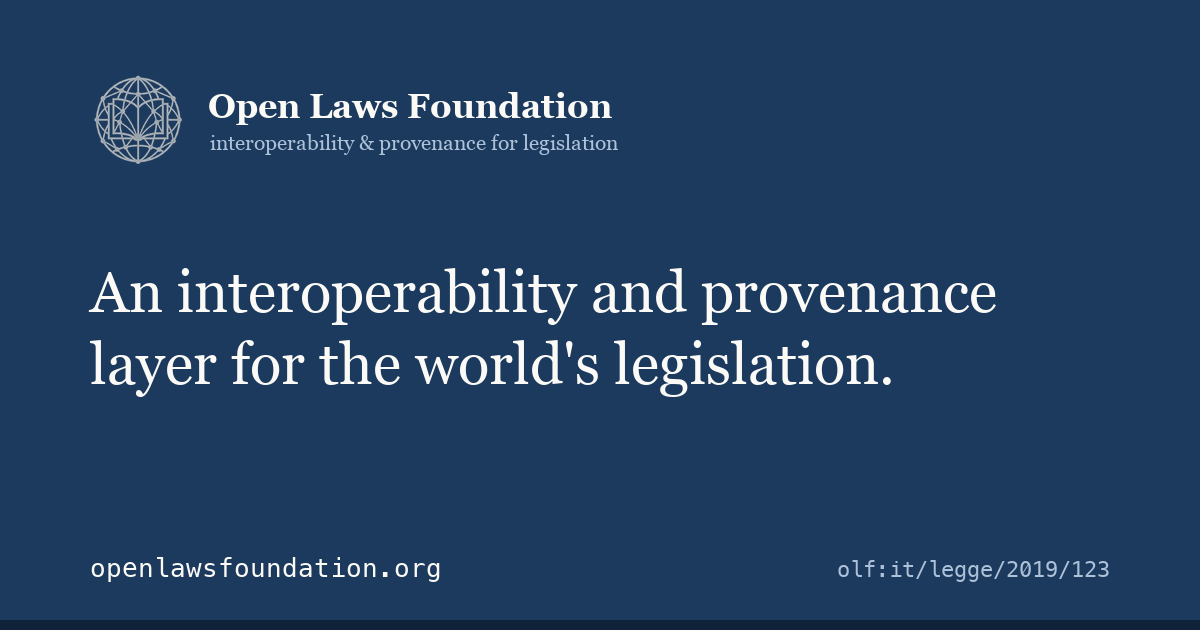
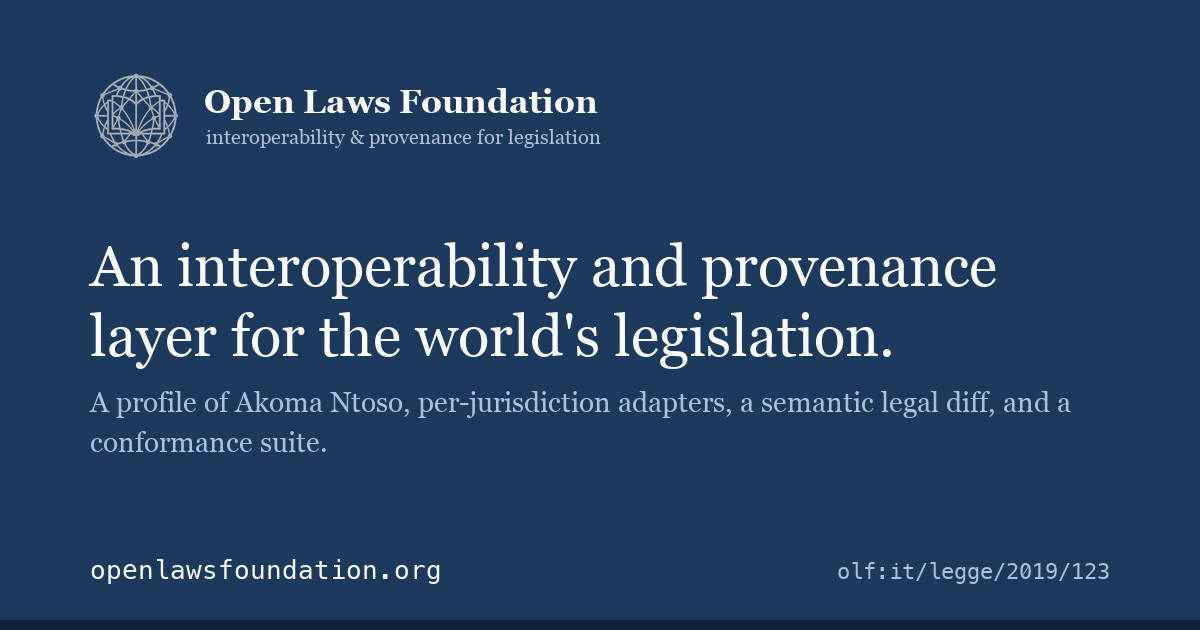
Add per-page Open Graph cards and a CI SEO metadata check
- scripts/build-og-cards.py generates a distinct 1200x630 share card per page
  (spec, pipeline, diff, archive, principles, contributors) plus the home/default
  card, each with the section eyebrow, page title, and a short subtitle. Pages
  reference their card via an 'image' front-matter field; cards stay PNG for
  social-embed compatibility.
- scripts/check-seo.py validates the built HTML: every page must have a title,
  description, canonical, Open Graph (title/description/url/image/type) and a
  Twitter card, the og:image must exist on disk, and the home page must carry
  JSON-LD. The deploy workflow now runs it after the Hugo build and fails the
  deploy if anything is missing.

diff --git a/scripts/check-seo.py b/scripts/check-seo.py
@@ -1,0 +1,130 @@
+#!/usr/bin/env python3
+"""Validate SEO metadata in the built site. Fails (exit 1) if any HTML page is
+missing required tags, or if an og:image points at a file that isn't there.
+
+Usage: python3 scripts/check-seo.py [public_dir]   (default: public)
+"""
+import os
+import sys
+from html.parser import HTMLParser
+
+PUBLIC = sys.argv[1] if len(sys.argv) > 1 else "public"
+
+# Required on every HTML page.
+REQUIRED_META_NAME = {"description", "twitter:card"}
+REQUIRED_META_PROP = {"og:title", "og:description", "og:url", "og:image", "og:type"}
+
+
+class Head(HTMLParser):
+    def __init__(self):
+        super().__init__()
+        self.title = ""
+        self._in_title = False
+        self.meta_name = {}
+        self.meta_prop = {}
+        self.canonical = None
+        self.ld_json = False
+        self._in_ld = False
+
+    def handle_starttag(self, tag, attrs):
+        a = dict(attrs)
+        if tag == "title":
+            self._in_title = True
+        elif tag == "meta":
+            c = (a.get("content") or "").strip()
+            if a.get("name"):
+                self.meta_name[a["name"]] = c
+            if a.get("property"):
+                self.meta_prop[a["property"]] = c
+        elif tag == "link" and a.get("rel") == "canonical":
+            self.canonical = a.get("href")
+        elif tag == "script" and a.get("type") == "application/ld+json":
+            self._in_ld = True
+
+    def handle_endtag(self, tag):
+        if tag == "title":
+            self._in_title = False
+        elif tag == "script" and self._in_ld:
+            self._in_ld = False
+
+    def handle_data(self, data):
+        if self._in_title:
+            self.title += data
+        if self._in_ld and data.strip():
+            self.ld_json = True
+
+
+def rel_from_url(url):
+    for base in ("https://openlawsfoundation.org", "http://openlawsfoundation.org",
+                 "https://localhost", "http://localhost"):
+        if url.startswith(base):
+            return url[len(base):].split("?")[0]
+    if url.startswith("/"):
+        return url.split("?")[0]
+    return None
+
+
+def check(path, is_home):
+    errors = []
+    with open(path, encoding="utf-8") as f:
+        html = f.read()
+    p = Head()
+    p.feed(html)
+
+    if not p.title.strip():
+        errors.append("missing <title>")
+    for n in REQUIRED_META_NAME:
+        if not p.meta_name.get(n):
+            errors.append(f"missing meta name={n}")
+    for n in REQUIRED_META_PROP:
+        if not p.meta_prop.get(n):
+            errors.append(f"missing meta property={n}")
+    if not p.canonical:
+        errors.append("missing canonical link")
+
+    og_img = p.meta_prop.get("og:image")
+    if og_img:
+        rel = rel_from_url(og_img)
+        if not rel:
+            errors.append(f"og:image not absolute/resolvable: {og_img}")
+        else:
+            fp = os.path.join(PUBLIC, rel.lstrip("/"))
+            if not os.path.isfile(fp):
+                errors.append(f"og:image file missing on disk: {rel}")
+            elif os.path.getsize(fp) < 1024:
+                errors.append(f"og:image suspiciously small: {rel}")
+
+    if is_home and not p.ld_json:
+        errors.append("home page missing JSON-LD structured data")
+    return errors
+
+
+def main():
+    if not os.path.isdir(PUBLIC):
+        print(f"ERROR: '{PUBLIC}' not found. Build the site first.", file=sys.stderr)
+        sys.exit(2)
+
+    home = os.path.normpath(os.path.join(PUBLIC, "index.html"))
+    pages, failures = 0, 0
+    for root, _, files in os.walk(PUBLIC):
+        for fn in files:
+            if not fn.endswith(".html"):
+                continue
+            path = os.path.join(root, fn)
+            pages += 1
+            errs = check(path, is_home=(os.path.normpath(path) == home))
+            if errs:
+                failures += 1
+                rel = os.path.relpath(path, PUBLIC)
+                print(f"FAIL  {rel}")
+                for e in errs:
+                    print(f"        - {e}")
+
+    if failures:
+        print(f"\nSEO check failed: {failures}/{pages} page(s) with issues.", file=sys.stderr)
+        sys.exit(1)
+    print(f"SEO check passed: {pages} page(s), all required metadata present.")
+
+
+if __name__ == "__main__":
+    main()

diff --git a/scripts/build-og-cards.py b/scripts/build-og-cards.py
@@ -1,0 +1,109 @@
+#!/usr/bin/env python3
+"""Generate per-page Open Graph share cards (1200x630) for the OLF site.
+
+Run from the repo root. Writes static/img/og-card.png (home/default) and
+static/img/og/<slug>.png for each content page. Static brand assets: regenerate
+only when the page titles/taglines change. macOS system fonts.
+"""
+from PIL import Image, ImageDraw, ImageFont
+
+NAVY = (27, 58, 94)
+PAPER = (251, 250, 246)
+MUTED = (173, 193, 217)
+EYE = (139, 167, 201)
+SER = "/System/Library/Fonts/Supplemental/Georgia.ttf"
+SERB = "/System/Library/Fonts/Supplemental/Georgia Bold.ttf"
+MONO = "/System/Library/Fonts/Menlo.ttc"
+W, H = 1200, 630
+PAD = 90
+
+# (output path, eyebrow, title, subtitle)
+CARDS = [
+    ("static/img/og-card.png", "",
+     "An interoperability and provenance layer for the world's legislation.",
+     "A profile of Akoma Ntoso, per-jurisdiction adapters, a semantic legal diff, and a conformance suite."),
+    ("static/img/og/spec.png", "SPEC",
+     "AKN4OLF: the profile",
+     "A profile of Akoma Ntoso, plus the conformance suite every adapter must pass."),
+    ("static/img/og/pipeline.png", "PIPELINE",
+     "Adapters & ingest",
+     "Turn official sources into validated Akoma Ntoso. Pass the suite, get published."),
+    ("static/img/og/diff.png", "DIFF",
+     "Semantic, type-aware diff",
+     "What kind of change happened, not just that some bytes moved."),
+    ("static/img/og/archive.png", "ARCHIVE",
+     "The canonical corpus",
+     "Legislation in Akoma Ntoso. Generated, not hand-edited. Public domain."),
+    ("static/img/og/principles.png", "DESIGN PHILOSOPHY",
+     "Principles",
+     "Normalize metadata, never content. Profile, don't replace. Conformance over coordination."),
+    ("static/img/og/contributors.png", "THE PEOPLE",
+     "Contributors",
+     "Who builds and maintains the Open Laws Foundation."),
+]
+
+
+def wrap(draw, text, font, maxw):
+    words, lines, cur = text.split(), [], ""
+    for w in words:
+        t = (cur + " " + w).strip()
+        if draw.textlength(t, font=font) <= maxw:
+            cur = t
+        else:
+            lines.append(cur)
+            cur = w
+    if cur:
+        lines.append(cur)
+    return lines
+
+
+def tracked(draw, xy, text, font, fill, spacing):
+    x, y = xy
+    for ch in text:
+        draw.text((x, y), ch, font=font, fill=fill)
+        x += draw.textlength(ch, font=font) + spacing
+
+
+def make(out, eyebrow, title, subtitle):
+    img = Image.new("RGB", (W, H), NAVY)
+    d = ImageDraw.Draw(img)
+    d.rectangle([0, H - 10, W, H], fill=(15, 34, 58))
+
+    mark = Image.open("static/img/olf-mark-light.webp").convert("RGBA").resize((92, 92), Image.LANCZOS)
+    img.paste(mark, (PAD, 70), mark)
+    d.text((PAD + 114, 82), "Open Laws Foundation", font=ImageFont.truetype(SERB, 33), fill=PAPER)
+    d.text((PAD + 116, 125), "interoperability & provenance for legislation",
+           font=ImageFont.truetype(SER, 20), fill=MUTED)
+
+    y = 232
+    if eyebrow:
+        tracked(d, (PAD, y), eyebrow, ImageFont.truetype(SERB, 22), EYE, 3)
+        y += 50
+
+    fh = ImageFont.truetype(SER, 58 if len(title) > 22 else 66)
+    for ln in wrap(d, title, fh, W - 2 * PAD):
+        d.text((PAD, y), ln, font=fh, fill=PAPER)
+        y += fh.size + 12
+
+    if subtitle:
+        y += 14
+        fs = ImageFont.truetype(SER, 28)
+        for ln in wrap(d, subtitle, fs, W - 2 * PAD)[:2]:
+            d.text((PAD, y), ln, font=fs, fill=MUTED)
+            y += 40
+
+    fm = ImageFont.truetype(MONO, 26)
+    d.text((PAD, H - 76), "openlawsfoundation.org", font=fm, fill=PAPER)
+    fid = ImageFont.truetype(MONO, 22)
+    idtxt = "olf:it/legge/2019/123"
+    d.text((W - PAD - d.textlength(idtxt, font=fid), H - 72), idtxt, font=fid, fill=MUTED)
+
+    img.save(out, optimize=True)
+    print("wrote", out)
+
+
+if __name__ == "__main__":
+    import os
+    os.makedirs("static/img/og", exist_ok=True)
+    for c in CARDS:
+        make(*c)

diff --git a/content/diff.md b/content/diff.md
@@ -1,5 +1,6 @@
 ---
 title: "Diff: semantic and type-aware"
+image: "/img/og/diff.png"
 eyebrow: "diff"
 description: "A semantic differ and changeset model that understands Akoma Ntoso. It tells you what kind of change happened, not just that some bytes moved."
 lede: "A text diff tells you that bytes moved. For legislation that is almost useless. The OLF differ understands Akoma Ntoso structure, so it tells you what kind of change happened: a substantive amendment, a change to entry into force, or a cosmetic fix."

diff --git a/content/contributors.md b/content/contributors.md
@@ -2,6 +2,7 @@
 title: "Contributors"
 eyebrow: "the people"
 layout: "contributors"
+image: "/img/og/contributors.png"
 description: "The people who build and maintain the Open Laws Foundation, inferred automatically from the organization's own repositories."
 lede: "A small project, kept honest by a small group. This list is rebuilt automatically from the organization's own repositories, so it stays current as people show up."
 # Founders are forced on top by scripts/build-contributors.py. These overrides

diff --git a/content/pipeline.md b/content/pipeline.md
@@ -1,5 +1,6 @@
 ---
 title: "Pipeline: adapters and ingest"
+image: "/img/og/pipeline.png"
 eyebrow: "pipeline"
 description: "Per-jurisdiction adapters and the ingest → validate → publish workflow that turns official sources into validated Akoma Ntoso."
 lede: "The pipeline is where official, already-published legal data becomes validated Akoma Ntoso. One adapter per jurisdiction, one shared workflow, one definition of done: pass the conformance suite."

diff --git a/content/archive.md b/content/archive.md
@@ -1,5 +1,6 @@
 ---
 title: "Archive: the canonical corpus"
+image: "/img/og/archive.png"
 eyebrow: "archive"
 description: "The canonical body of legislation in Akoma Ntoso. Generated by the pipeline, not hand-edited. Public domain (CC0-1.0)."
 lede: "The archive is the canonical body of legislation in Akoma Ntoso, produced by the pipeline, addressed by a stable identifier, and released into the public domain. It is generated, never hand-edited."

diff --git a/content/spec.md b/content/spec.md
@@ -1,6 +1,7 @@
 ---
 title: "AKN4OLF: the profile"
 eyebrow: "spec"
+image: "/img/og/spec.png"
 description: "The Open Laws Foundation profile of Akoma Ntoso, plus the conformance suite every adapter must pass."
 lede: "AKN4OLF is a profile of Akoma Ntoso (OASIS LegalDocML) plus the conformance suite that every Open Laws Foundation adapter must pass. It is the entry point to the project. Read this before the other repositories."
 repo: "spec"

diff --git a/content/principles.md b/content/principles.md
@@ -1,6 +1,7 @@
 ---
 title: "Principles"
 eyebrow: "design philosophy"
+image: "/img/og/principles.png"
 description: "The design philosophy of the Open Laws Foundation: normalize metadata, never content; profile, don't replace; conformance over coordination."
 lede: "A few load-bearing decisions hold this whole project up. They're deliberately conservative. The usual way these projects die is too much ambition, not too little."
 ---
